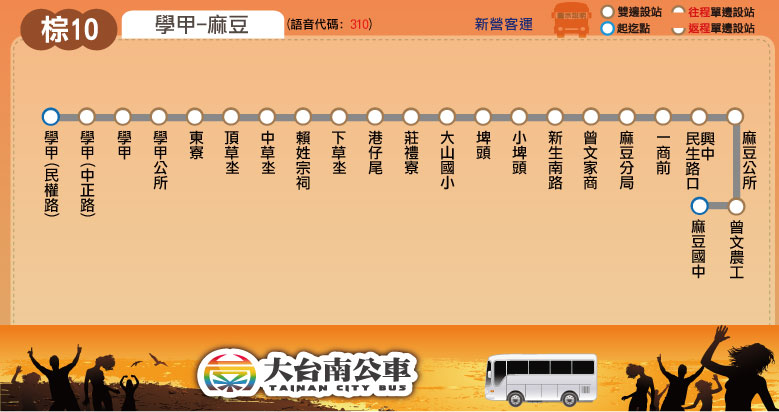
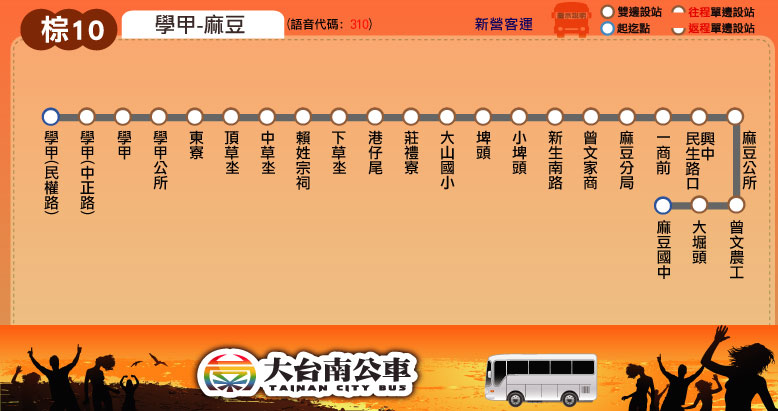
新增站點：棕10 大堀頭

diff --git a/route/fare_and_time/brown_10.js b/route/fare_and_time/brown_10.js
@@ -1,10 +1,10 @@
 brown_10_interval_name = ["學甲","下草坔","莊禮寮","埤頭","麻豆公所","麻豆國中"];
-brown_10_interval_stop = [ // 2015.09.14 checked
+brown_10_interval_stop = [ // 2016.02.04 checked
 ["學甲(民權路)","學甲(中正路)","學甲","學甲公所","東寮"], // 學甲
 ["頂草坔","中草坔","賴姓宗祠","下草坔"], // 下草坔
 ["港仔尾","莊禮寮"], // 莊禮寮
 ["大山國小","埤頭","小埤頭"], // 埤頭
-["新生南路","曾文家商","麻豆分局","一商前","興中民生路口","麻豆公所","曾文農工"], // 麻豆公所
+["新生南路","曾文家商","麻豆分局","一商前","興中民生路口","麻豆公所","曾文農工","大堀頭"], // 麻豆公所
 ["麻豆國中"] // 麻豆國中
 ];
 brown_10_fare = [
